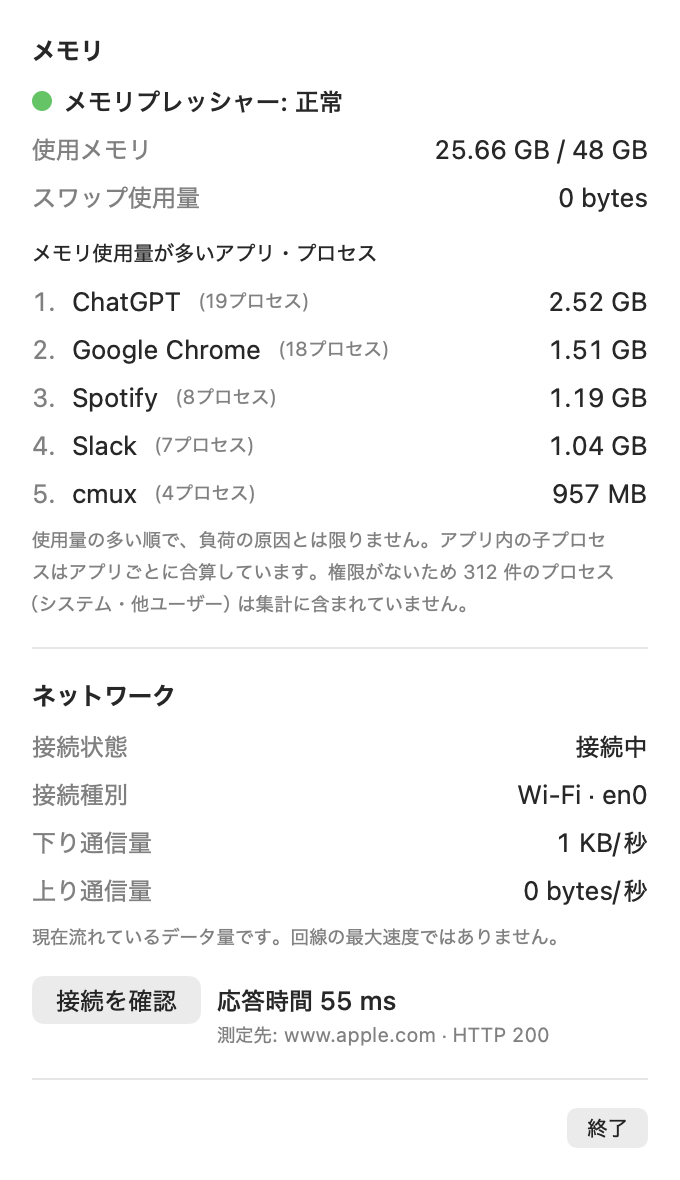
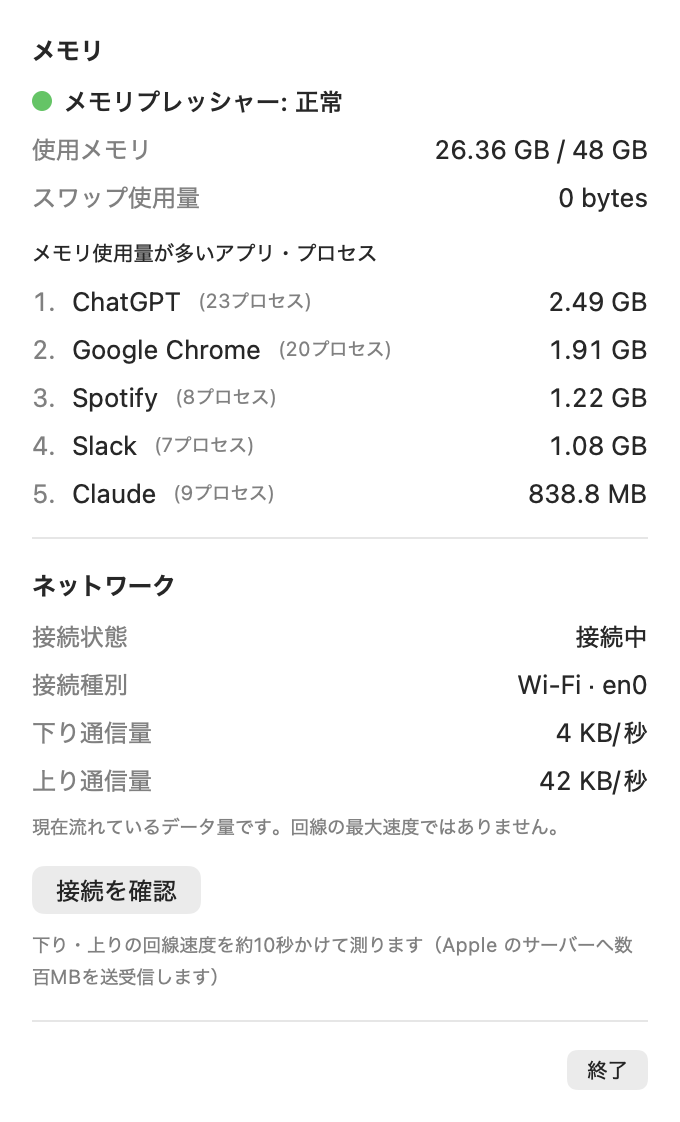
docs: README と画面の写真を回線速度の測定に合わせる

diff --git a/README.md b/README.md
@@ -5,7 +5,7 @@
 - メニューバーには、メモリプレッシャーを示すアイコンを1つだけ出す。正常は緑、注意は黄、高負荷は赤で表す。状態はツールチップとアクセシビリティラベルでも伝える（例：「メモリプレッシャー: 正常」）
 - アイコンをクリックすると、メモリとネットワークの2つのセクションを持つパネルが開く
   - メモリ：メモリプレッシャー、使用メモリと総容量、スワップの使用量、メモリ使用量が多いアプリ・プロセスの上位5件
-  - ネットワーク：接続状態、接続の種別、下り通信量・上り通信量、「接続を確認」（応答時間の測定）
+  - ネットワーク：接続状態、接続の種別、下り通信量・上り通信量、「接続を確認」（下り・上りの回線速度と応答時間の測定）
 
 通知、履歴、グラフ、プロセスの終了操作はない。
 
@@ -30,7 +30,7 @@
 
 2. 作った`build/Memory Pressure Dock.app`を「アプリケーション」フォルダーに移し、開く。Dockには出ず、メニューバーにアイコンが出る。
 3. アイコンをクリックすると、パネルが開く。もう一度アイコンをクリックするか、パネルの外をクリックするか、Escキーを押すと閉じる。
-4. 回線につながるかを確かめたいときは、パネルの「接続を確認」を押す。
+4. 回線の速度を確かめたいときは、パネルの「接続を確認」を押す。約10秒で、下り速度、上り速度、応答時間、測定先が出る。1回の測定で数百MBを送受信する。
 5. 終了するときは、パネルの右下の「終了」を押す。
 
 アイコンは、⌘を押しながらドラッグすると移動できる。移動した位置は、次に起動したときも引き継ぐ。
@@ -60,7 +60,7 @@ swift test                               # テスト
 | 接続状態・種別 | `NWPathMonitor` |
 | Wi‑Fi名 | `CoreWLAN`（取れないときは「Wi‑Fi」とだけ表示する） |
 | 下り・上り通信量 | `sysctl NET_RT_IFLIST2`の64ビットのカウンターを1秒ごとに読み、主インターフェースの差分を取る |
-| 接続を確認 | 押したときだけ`https://www.apple.com/library/test/success.html`にGETを1回送り、応答までの時間を出す。新しい接続で測るので、名前解決とTLSの時間を含む。タイムアウトは5秒 |
+| 接続を確認 | 押したときだけ、macOS標準の`networkQuality -c -M 10`を実行する。測定先はAppleのサーバーで、下り・上りの速度（`dl_throughput`、`ul_throughput`）、応答時間（`base_rtt`）、測定先の名前（`test_endpoint`）を表示する。30秒で終わらなければ打ち切る |
 
 ## 負荷を抑える工夫
 
@@ -69,7 +69,7 @@ swift test                               # テスト
 
 ## macOS上の制約
 
-- **他のユーザーとシステムのプロセスの使用量は読めない。**権限のないアプリから`proc_pid_rusage`を呼ぶと失敗する。たとえば`WindowServer`や`kernel_task`は一覧に出ない。読めなかった件数はパネルに表示する
+- **他のユーザーとシステムのプロセスの使用量は読めない。**権限のないアプリから`proc_pid_rusage`を呼ぶと失敗する。たとえば`WindowServer`や`kernel_task`は一覧に出ない
 - **SafariのタブはSafariにまとまらない。** WebKitのWebContentプロセスは`/System/Library/Frameworks/WebKit.framework`にある。パスからは所属を判定できないので、個別に表示する
 - **Wi‑Fi名は、通常は取得できない。** macOS 14以降は、位置情報サービスの許可がないと`CoreWLAN`がSSIDを返さない。このアプリは位置情報の許可を求めないので、「Wi‑Fi」とだけ表示する
 - **メニューバーが混んでいるとアイコンが隠れる。**ノッチのあるMacで常駐アイコンが多いと、macOSがアイコンを画面外に置く。そのときは他の常駐アプリを減らすか、⌘を押しながらアイコンをドラッグして並びを変える
